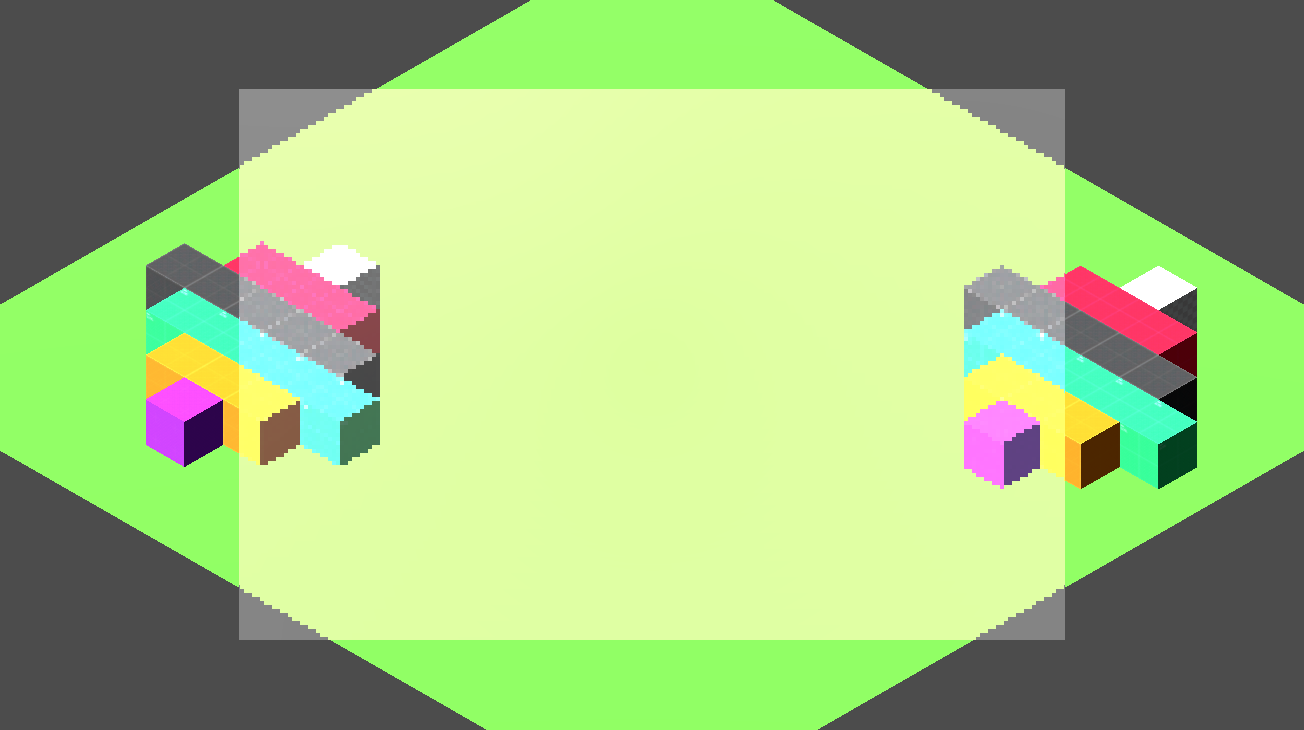
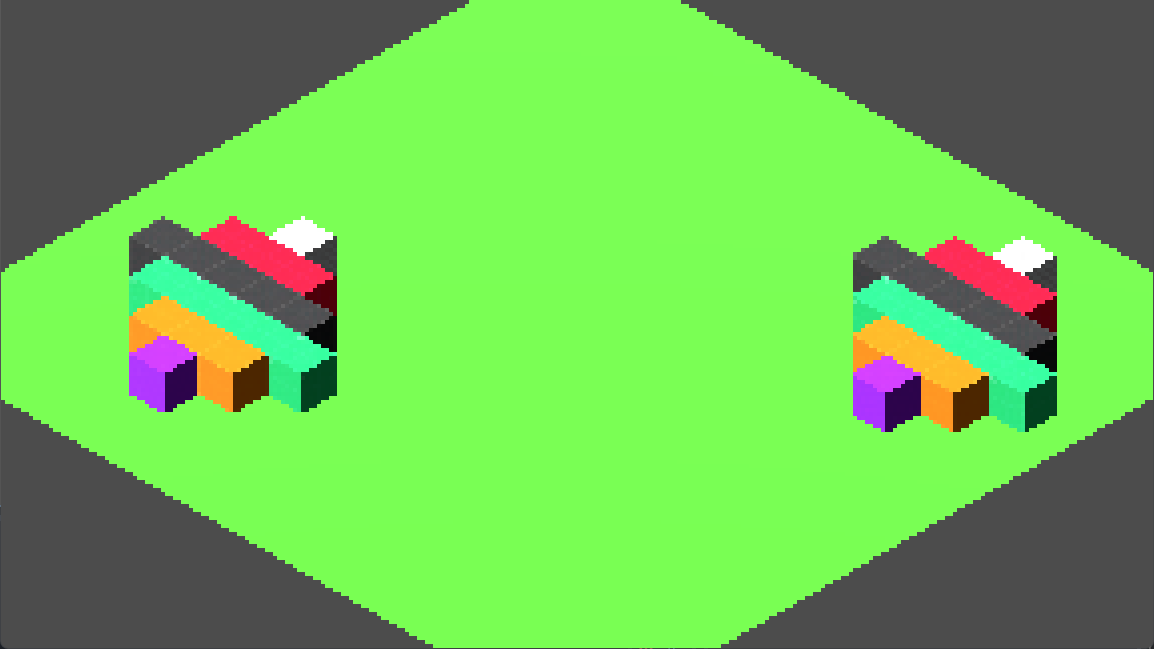
Camera effects in CanvasLayer (+Cromatic Aberration)

diff --git a/README.md b/README.md
@@ -30,7 +30,7 @@
 
 ## Camera Effects
 
-These effects are mostly to be placed as a child of Camera object
+These effects should be place in a CanvasLayer object in any scene
 
 ### Pixelate
 
@@ -39,6 +39,10 @@ These effects are mostly to be placed as a child of Camera object
 ### Vignette (danger)
 
 ![Vignette](./docs/images/camera-effects/vignette.png)
+
+### Chromatic Aberration
+
+![Chromatic Aberration](./docs/images/camera-effects/chromatic-aberration.png)
 
 ## License
 
